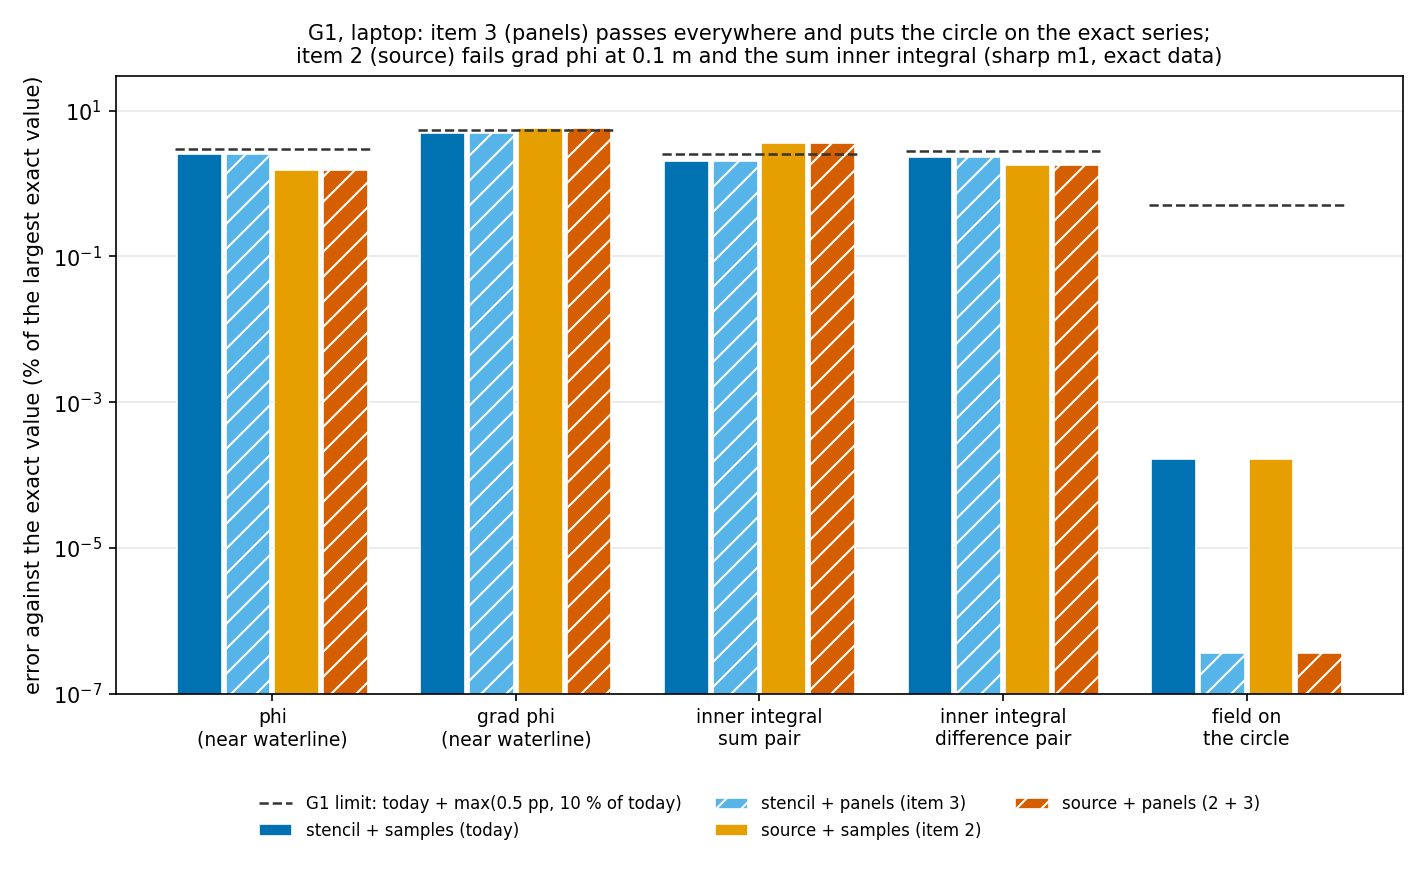
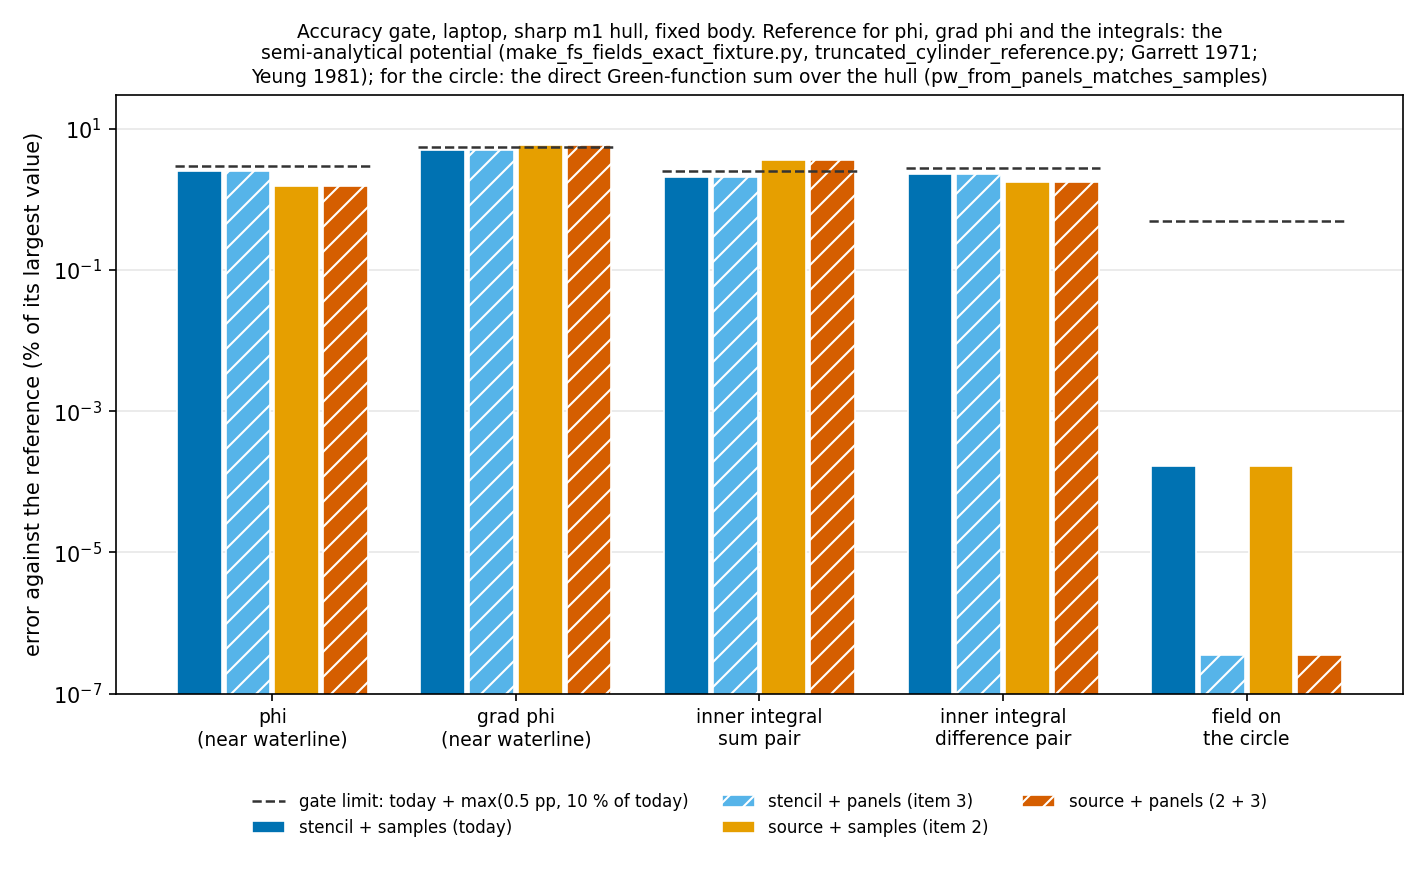
docs: figure labels of the field-pass speed-ups (references named, mode indices, no job IDs)

diff --git a/validation-runs/fs-speedups/snellius/oc4_compare/timing_oc4.py b/validation-runs/fs-speedups/snellius/oc4_compare/timing_oc4.py
@@ -87,9 +87,9 @@ def main():
     problems = []
     sacct = read_sacct(a.sacct)
     runs = []
-    for label, (d, jid) in (("HAMS old (stencil + samples)", a.hams_old),
-                            ("HAMS new (all speed-ups, circle = panels)", a.hams_new),
-                            ("Nemoh v3.0.3", a.nemoh)):
+    for label, (d, jid) in (("HAMS at 22086da (stencil + samples)", a.hams_old),
+                            ("HAMS with the speed-ups\n(deep-water rows on FS, C and F)", a.hams_new),
+                            ("Nemoh v3.0.3 (same mesh)", a.nemoh)):
         if jid not in sacct:
             problems.append(f"job {jid} not in {a.sacct}")
             continue
@@ -120,7 +120,7 @@ def main():
              f"{'run':44s} {'job':>9s} {'wall h':>7s} {'core-h':>7s}  split (h)"]
     for r in runs:
         split = "; ".join(f"{n} {t / 3600:.2f}" for n, t in r["parts"])
-        lines.append(f"{r['label']:44s} {r['jobid']:>9s} {r['wall_s'] / 3600:7.2f} {r['core_h']:7.1f}  {split}")
+        lines.append(f"{r['label'].replace(chr(10), ' '):44s} {r['jobid']:>9s} {r['wall_s'] / 3600:7.2f} {r['core_h']:7.1f}  {split}")
         lines.append(f"{'':44s} {'':>9s} {'':>7s} {'':>7s}  ({r['note']})")
     old, new = runs[0], runs[1]
     lines += ["", f"new / old HAMS: wall {new['wall_s'] / old['wall_s']:.3f}, core-h {new['core_h'] / old['core_h']:.3f}",
@@ -138,7 +138,7 @@ def main():
               "second order, body part": "#2a6fdb", "second order, free-surface part": "#e0892b",
               "second order (body + FS, not split in the logs)": "#7a5bc7"}
     fig, ax = plt.subplots(figsize=(9, 4.4))
-    names = [f"{r['label']}\njob {r['jobid']}" for r in runs][::-1]
+    names = [r["label"] for r in runs][::-1]
     seen = set()
     for i, r in enumerate(runs[::-1]):
         left = 0.0

diff --git a/validation-runs/fs-speedups/gate/make_g1_table.py b/validation-runs/fs-speedups/gate/make_g1_table.py
@@ -119,17 +119,19 @@ def figure():
         today = row[1][0]
         lim = today + margin(today)
         ax.plot([i - 2 * w, i + 2 * w], [lim, lim], color="#333333", linewidth=1.2, linestyle="--")
-    ax.plot([], [], color="#333333", linewidth=1.2, linestyle="--", label="G1 limit: today + max(0.5 pp, 10 % of today)")
+    ax.plot([], [], color="#333333", linewidth=1.2, linestyle="--", label="gate limit: today + max(0.5 pp, 10 % of today)")
     ax.set_yscale("log")
     ax.set_ylim(1e-7, 30)
     ax.set_xticks(range(len(ROWS)))
     ax.set_xticklabels(labels, fontsize=9)
-    ax.set_ylabel("error against the exact value (% of the largest exact value)")
+    ax.set_ylabel("error against the reference (% of its largest value)")
     ax.grid(alpha=0.3, axis="y")
     ax.set_axisbelow(True)
     ax.legend(frameon=False, fontsize=8, loc="upper center", bbox_to_anchor=(0.5, -0.14), ncol=3)
-    ax.set_title("G1, laptop: item 3 (panels) passes everywhere and puts the circle on the exact series;\n"
-                 "item 2 (source) fails grad phi at 0.1 m and the sum inner integral (sharp m1, exact data)", fontsize=10)
+    ax.set_title("Accuracy gate, laptop, sharp m1 hull, fixed body. Reference for phi, grad phi and the integrals: the\n"
+                 "semi-analytical potential (make_fs_fields_exact_fixture.py, truncated_cylinder_reference.py; Garrett 1971;\n"
+                 "Yeung 1981); for the circle: the direct Green-function sum over the hull (pw_from_panels_matches_samples)",
+                 fontsize=9)
     fig.tight_layout()
     fig.savefig(os.path.join(HERE, "G1_errors.png"), dpi=150)
 

diff --git a/validation-runs/fs-speedups/snellius/oc4_compare/oc4_by_omega.py b/validation-runs/fs-speedups/snellius/oc4_compare/oc4_by_omega.py
@@ -52,18 +52,19 @@ import matplotlib.pyplot as plt
 fig, axs = plt.subplots(1, 2, figsize=(11, 4), sharex=True)
 cols = ["#2a6fdb", "#e0892b", "#1b9e77", "#7a5bc7", "#c43c5c", "#7f7f7f"]
 for i, mm in enumerate(range(1, 7)):
-    axs[0].plot(Ws, curves[f".11s mode {mm}"], "-o", ms=3, lw=1.5, color=cols[i], label=f"mode {mm}")
+    axs[0].plot(Ws, curves[f".11s mode {mm}"], "-o", ms=3, lw=1.5, color=cols[i], label=f"QTF⁺_{mm}")
 for i, n in enumerate(("B2", "FS_inner", "FS_outer")):
     axs[1].plot(Ws, curves[f"term {n}"], "-o", ms=3, lw=1.5, color=cols[i], label=n)
 for ax, t in zip(axs, ("QTF_Indirect.11s, per mode (force or moment group)", "potential terms (all modes)")):
     ax.axvline(1.575, color="#999", lw=1, ls="--")
-    ax.text(1.59, ax.get_ylim()[1] * 0.92, "old run warns:\nnu h > 50 (Limes)", fontsize=8, color="#555", va="top")
+    ax.text(1.59, ax.get_ylim()[1] * 0.92, "old run warns:\nnu h > 50", fontsize=8, color="#555", va="top")
     ax.set_title(t, fontsize=10)
     ax.set_xlabel("sum frequency Omega (rad/s)")
     ax.grid(color="#ddd", lw=0.6)
     ax.spines[["top", "right"]].set_visible(False)
     ax.legend(fontsize=8, frameon=False, loc="upper left")
 axs[0].set_ylabel("max |new - old| / max |old|  (%)")
-fig.suptitle("OC4 WAMIT model: new HAMS against old HAMS", fontsize=11)
+fig.suptitle("OC4 WAMIT model, QTF_Indirect.11s: HAMS with the speed-ups (deep-water rows on FS, C and F) "
+             "against HAMS at 22086da (reference)", fontsize=10)
 fig.tight_layout()
 fig.savefig(out / "oc4_by_omega.png", dpi=150)
